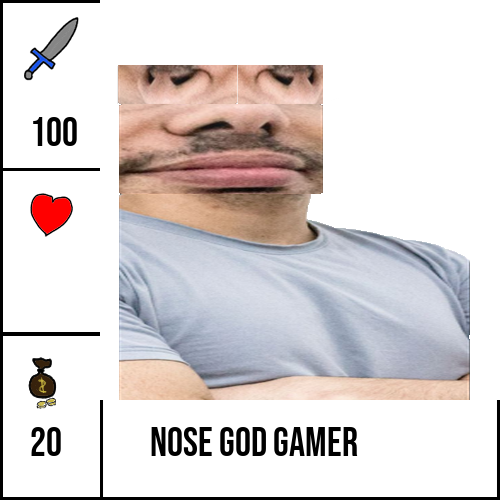
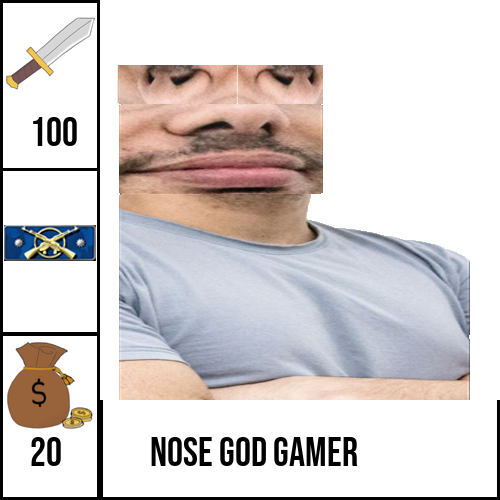
Unit roles til cardGen
Nu har units deres tildelte roller/ranks, og det er ret sejt

Changed region(s): [[0.0, 0.0, 0.21, 0.99], [0.3, 0.84, 0.72, 0.93]]

diff --git a/CardGenerator.py b/CardGenerator.py
@@ -3,6 +3,10 @@ from Unit import unit
 
 class cardGenerator (unit):
     statsBar = Image.open('icons\statsBar.png')
+    statsBar0 = Image.open('icons\statsBar0.png')
+    statsBar1 = Image.open('icons\statsBar1.png')
+    statsBar2 = Image.open('icons\statsBar2.png')
+    statsBar3 = Image.open('icons\statsBar3.png')
     nameBar = Image.open('icons\mameBar.png')
     icon = Image.open('icons\character.png')
     attackPower = 10
@@ -11,6 +15,10 @@ class cardGenerator (unit):
     #Ved ikke hvor meget af det her, der var nødvendigt. Hvis man ved, om  det kan fjernes er man meget velkommen til det
     def __init__(self):
         self.statsBar = Image.open('icons\statsBar.png')
+        self.statsBar0 = Image.open('icons\statsBar0.png')
+        self.statsBar1 = Image.open('icons\statsBar1.png')
+        self.statsBar2 = Image.open('icons\statsBar2.png')
+        self.statsBar3 = Image.open('icons\statsBar3.png')
         self.nameBar = Image.open('icons\mameBar.png')
         self.icon = Image.open('icons\character.png')
         self.attackPower = 10
@@ -25,7 +33,14 @@ class cardGenerator (unit):
 
         #Resizer alle billederne til de korrekte størrelser. Burde ikke være nødvendigt, men er en failsafe>
         #>for at sikre, at output-billederne forbliver 500x500
-        image1 = self.statsBar.resize((100, 500))
+        if unit.getRole() == 0:
+            image1 = self.statsBar0.resize((100, 500))
+        elif unit.getRole() == 1:
+            image1 = self.statsBar1.resize((100, 500))
+        elif unit.getRole() == 2:
+            image1 = self.statsBar2.resize((100, 500))
+        elif unit.getRole() == 3:
+            image1 = self.statsBar3.resize((100, 500))
         image2 = self.icon.resize((400, 400))
         image3 = self.nameBar.resize((400, 100))
 
@@ -57,10 +72,10 @@ class cardGenerator (unit):
         #Draw'er attackpower tekst på billedet
         d.text((30, 110), str(unit.getAttackPower()), font=fnt, fill=(0, 0, 0, 255))
 
-        #Draw'er cost tekst på billedet
-        d.text((30, 420), str(unit.getCost()), font=fnt, fill=(0, 0, 0, 255))
+        #Draw'er cost- og name tekst på billedet
+        d.text((30, 430), str(unit.getCost()), font=fnt, fill=(0, 0, 0, 255))
 
-        d.text((150, 420), unit.getName(), font=fnt, fill=(0, 0, 0, 255))
+        d.text((150, 430), unit.getName(), font=fnt, fill=(0, 0, 0, 255))
 
         #Gemmer outputtet som en png
         out = Image.alpha_composite(base, txt)

diff --git a/UnitGenerator.py b/UnitGenerator.py
@@ -5,7 +5,7 @@ from CardGenerator import cardGenerator
 class unitGenerator():
 
     unitList = open('unitList.txt', 'r')
-    units = [unit(1,1,'',"")]*0
+    units = [unit(1,1,'',"",0)]*0
 
     def __init__(self):
         self.unitList = open('unitList.txt', 'r')
@@ -20,6 +20,6 @@ class unitGenerator():
         for x, line in enumerate(unitList, 1):
             fileNumber = x
             split = line.split(", ")
-            newUnit = unit(split[0], split[1], Image.open(split[2]), split[3])
+            newUnit = unit(split[0], split[1], Image.open(split[2]), split[3], split[4])
             self.units.append(newUnit)
             cardGenerator.createCard(newUnit, x)

diff --git a/Unit.py b/Unit.py
@@ -8,13 +8,15 @@ class unit(object):
     cost = 10
     icon = cv.imread("testmappe/Warrior.png")
     name = 'default name'
+    role = 0
     card = None
 
-    def __init__(self, cost, attackPower, icon, name):
+    def __init__(self, cost, attackPower, icon, name, role):
         self.cost = cost
         self.attackPower = attackPower
         self.icon = icon
         self.name = name
+        self.role = role
 
 
     def getAttackPower(self):
@@ -36,3 +38,6 @@ class unit(object):
 
     def SetCard(self, card):
         self.card = card
+
+    def getRole(self):
+        return int(self.role)
